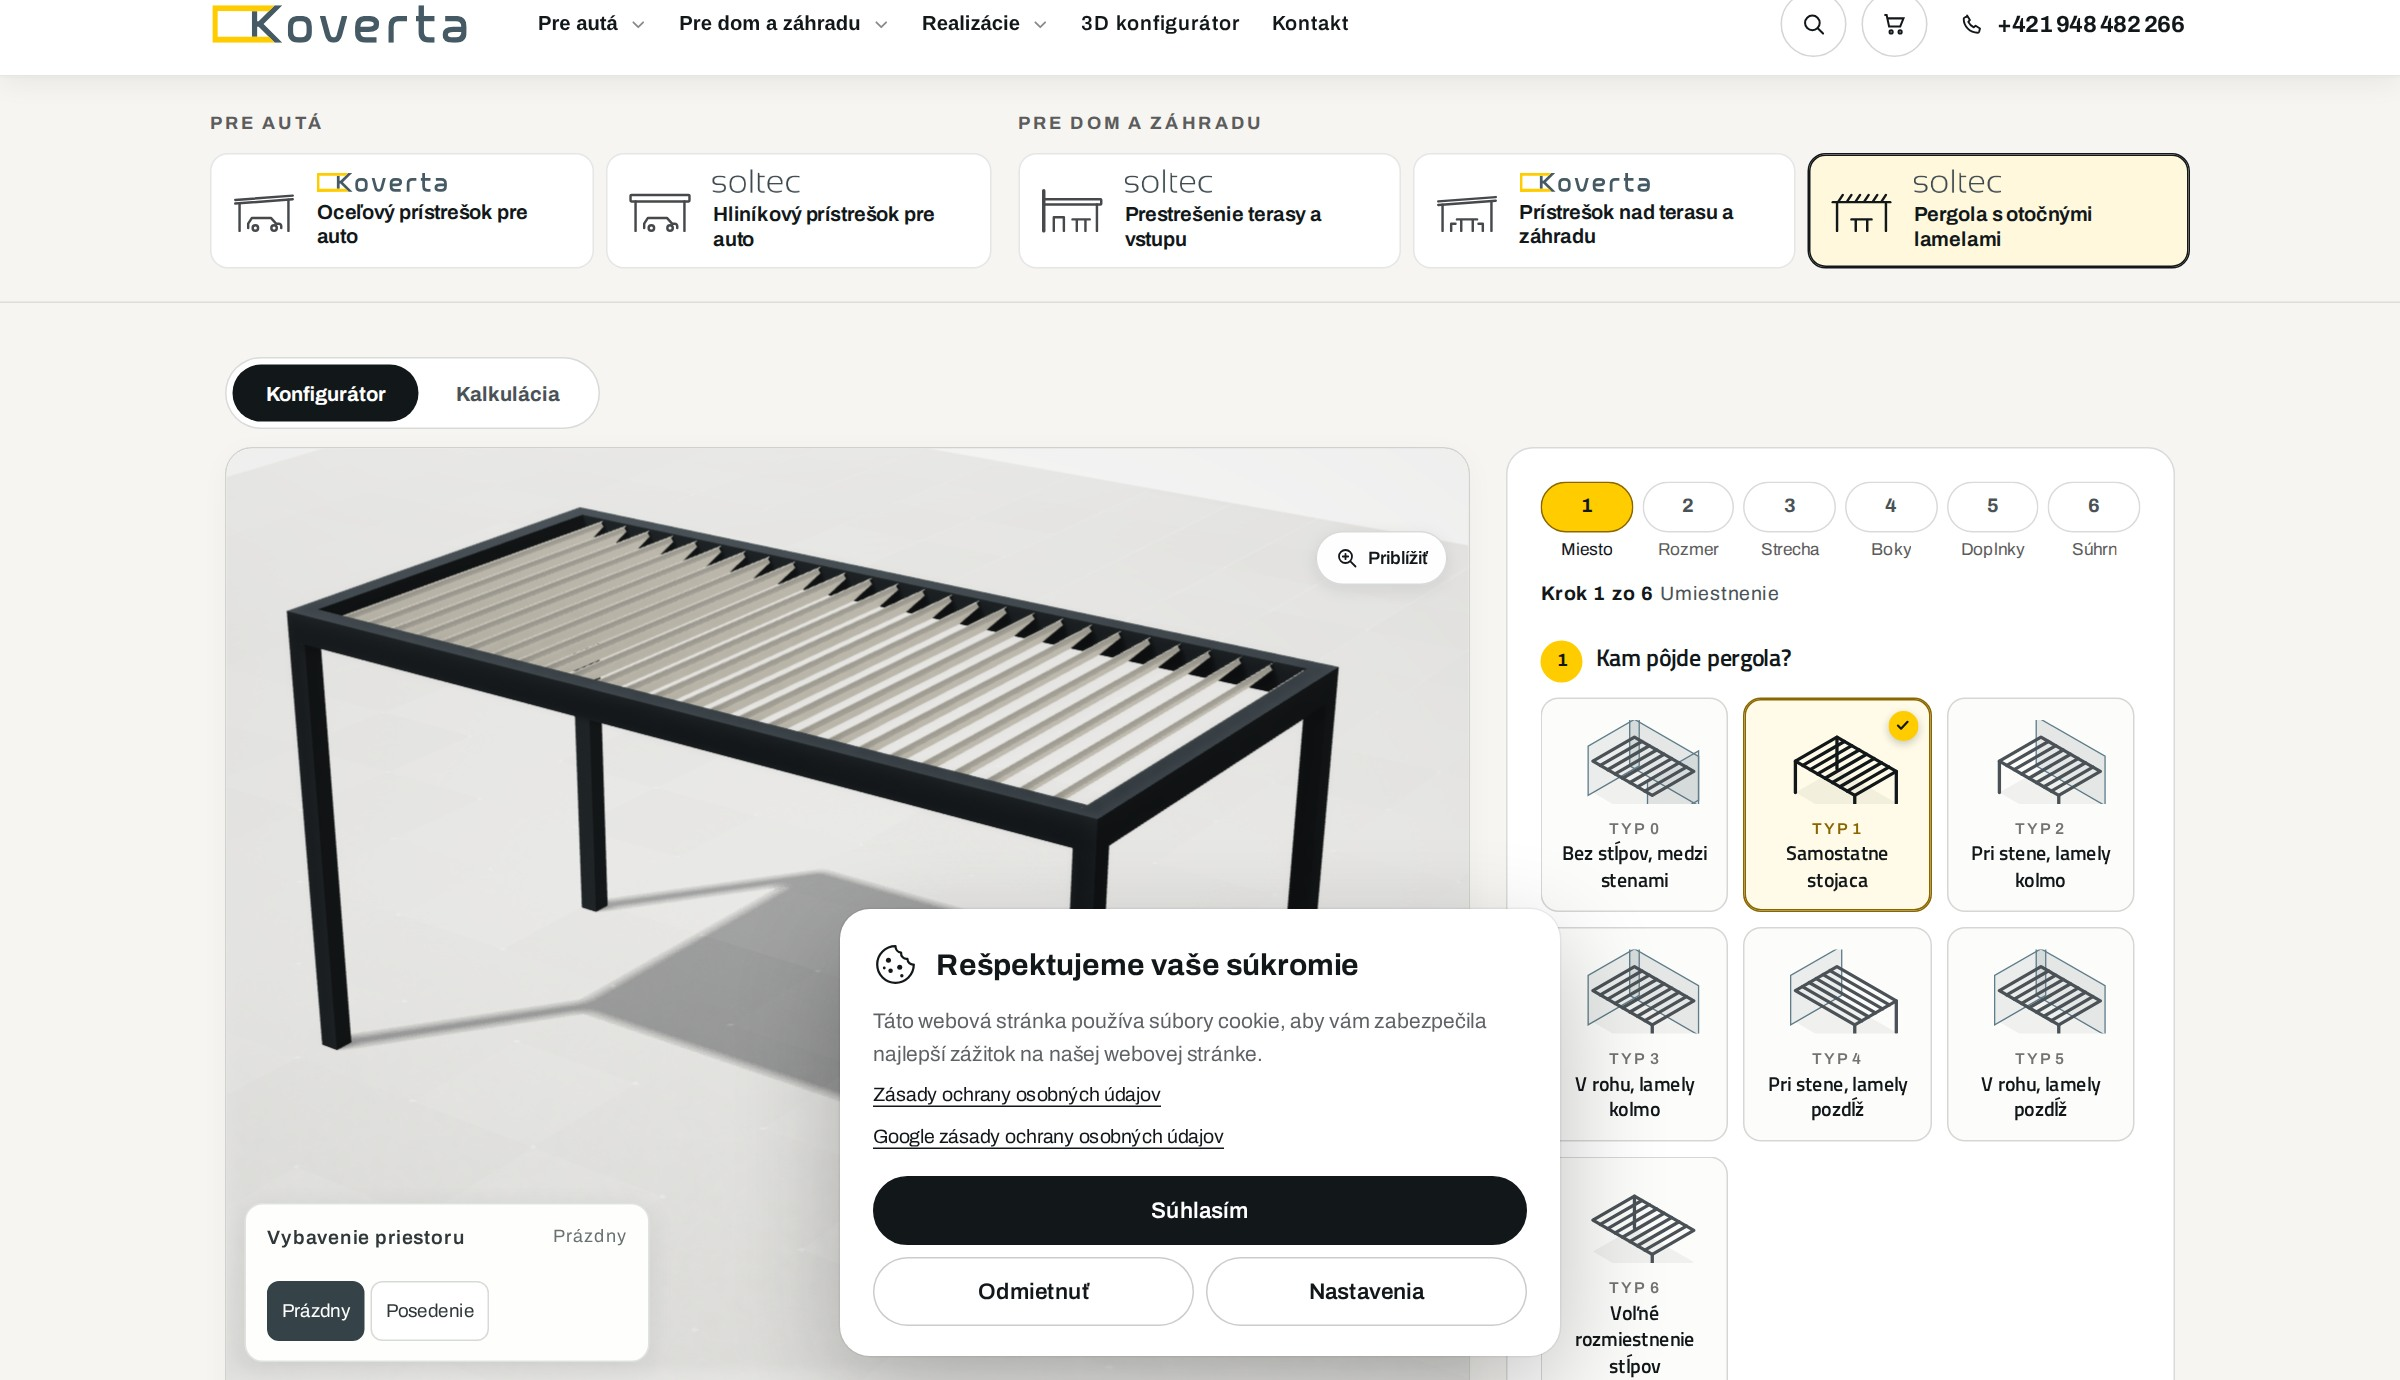
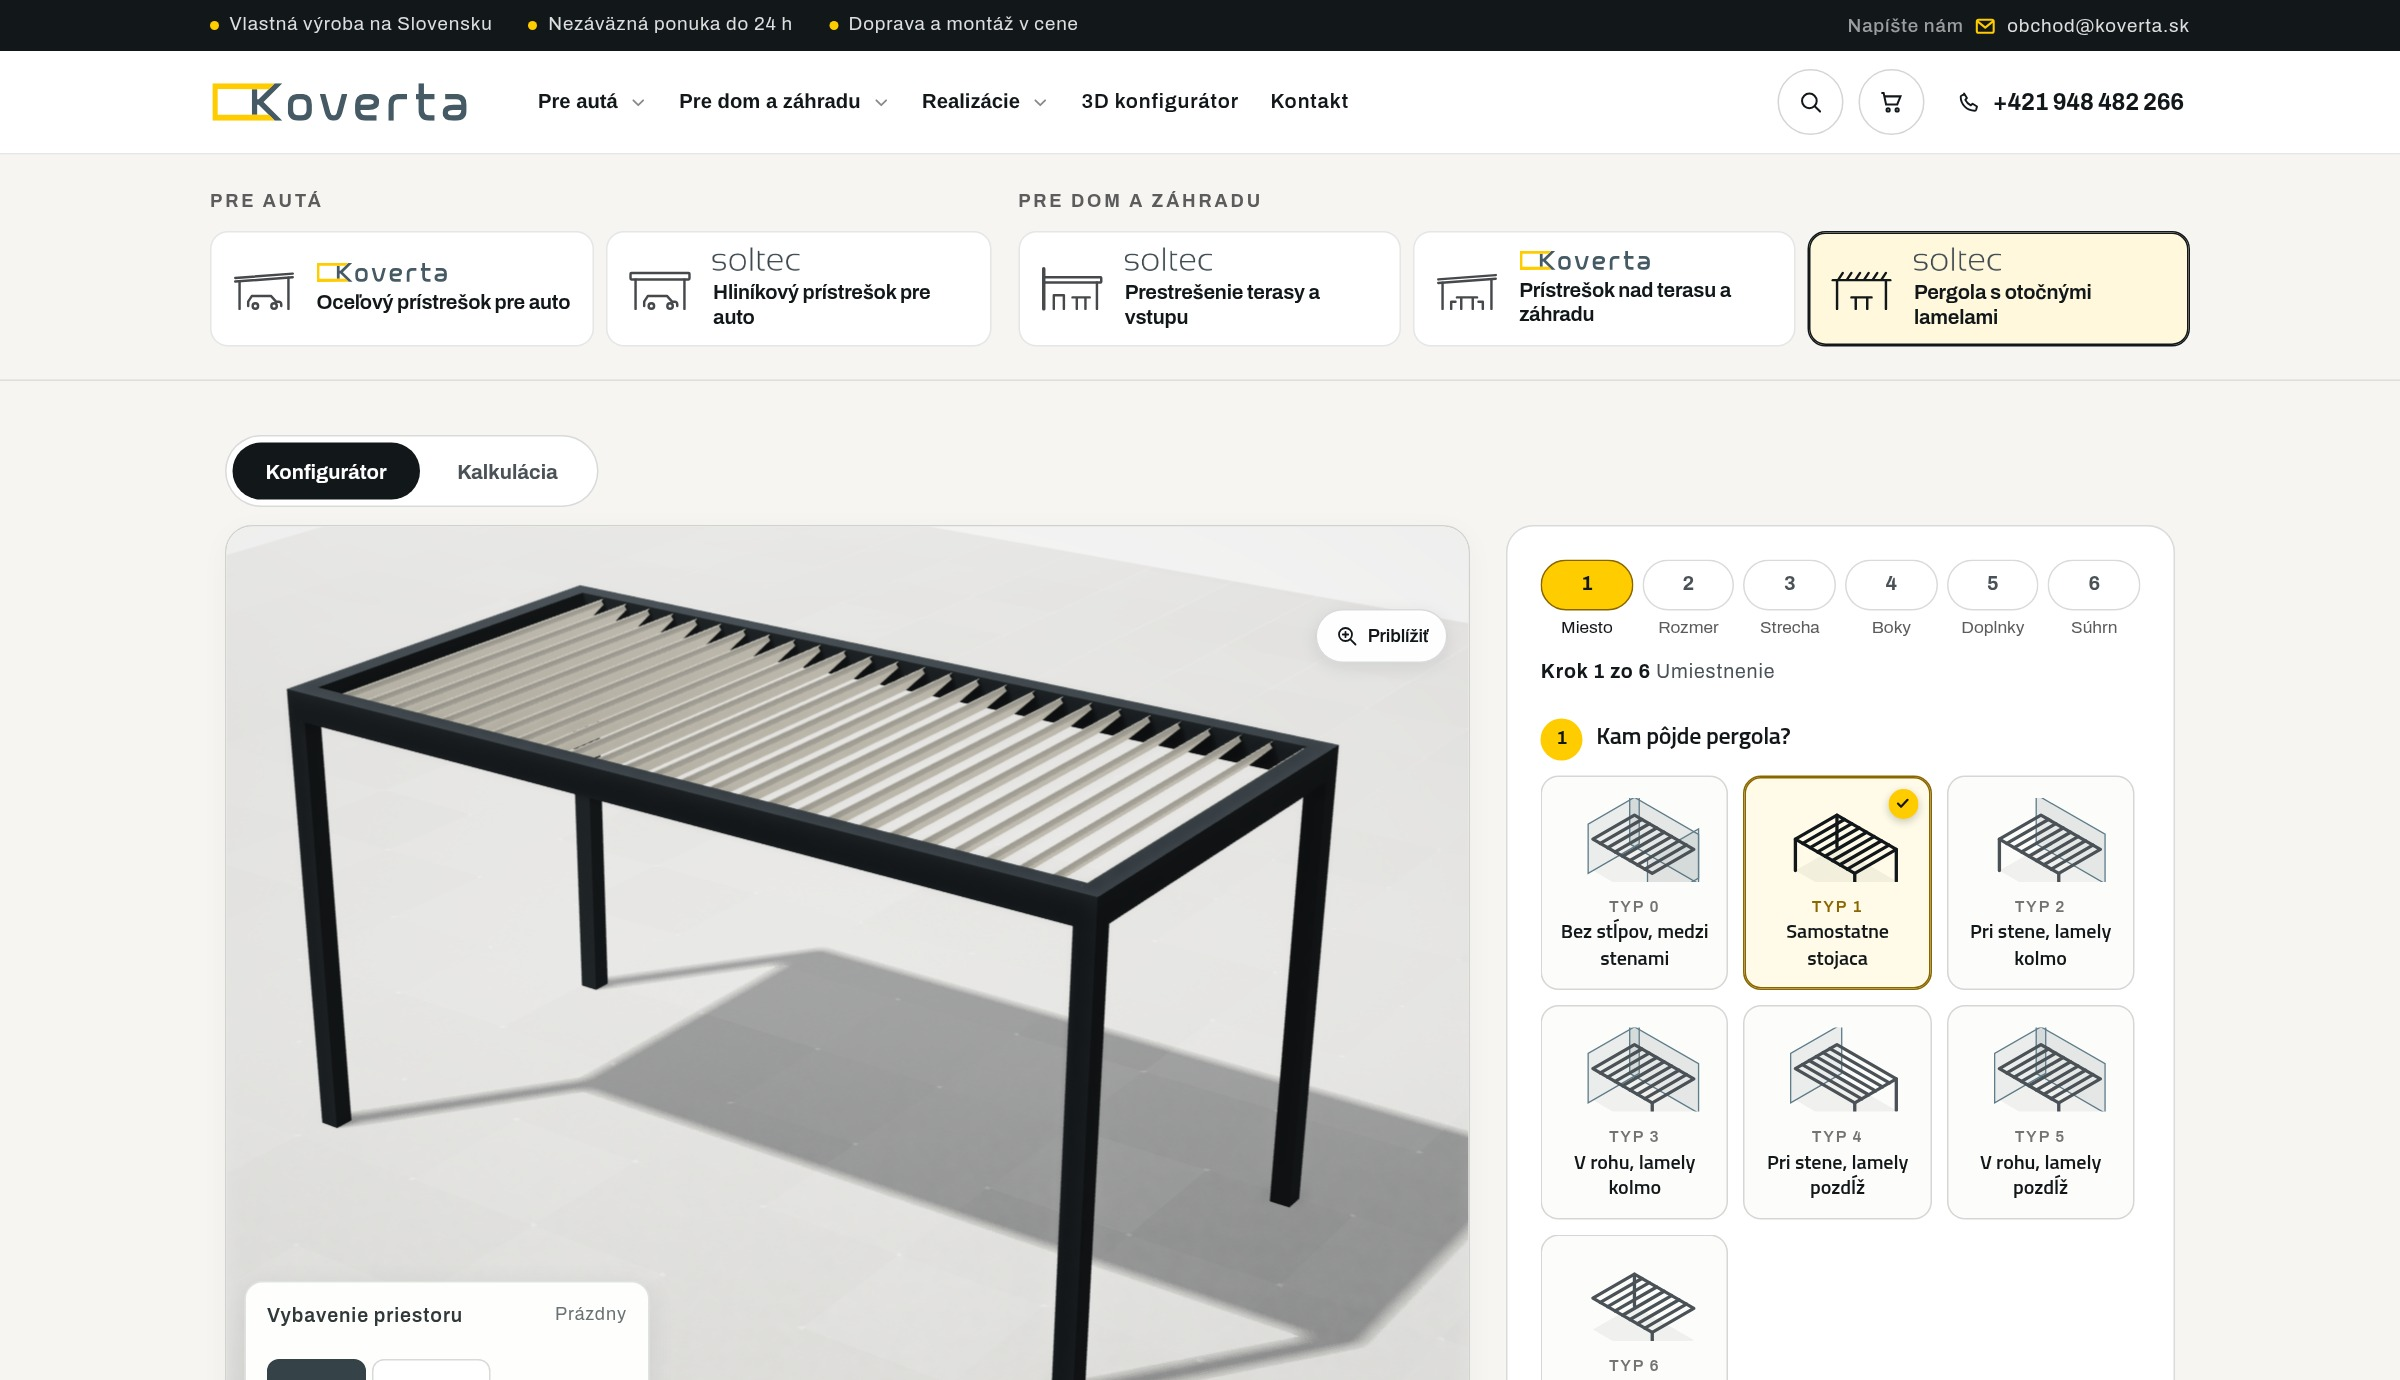
Capture clean configurator and test frozen production build in CI

diff --git a/src/types/assistant.ts b/src/types/assistant.ts
@@ -1,5 +1,10 @@
 export type AssistantEntry =
-  "recommend" | "builder" | "calculator" | "inquiry" | "advisor" | "booking";
+  | "recommend"
+  | "builder"
+  | "calculator"
+  | "inquiry"
+  | "advisor"
+  | "booking";
 
 export type AssistantPreset = "calculator" | "product" | "inquiry" | "advisor" | "booking";
 

diff --git a/docs/qa/2026-10-08/README.md b/docs/qa/2026-10-08/README.md
@@ -16,6 +16,8 @@ This review builds on website PR #200 (`beac46714ba491dd3fc643e5fd9ee16f14dd4de1
 
 ## Real product sources
 
+The real Koverta 3D configurator was recaptured with the pergola selected and cookies refused through the provided control. [Clean 3D capture](../../../public/work/koverta/configurator-live-screenshot.jpg).
+
 Koverta's widget loads lazily after user interaction. Its current **Poradca** was opened on the real site, cookies were refused through the provided control, and a question about pergola versus fixed roofing received a real answer and product links. Its actual client logo is retained. [Original capture](koverta-source.png).
 
 Môj Plot's real widget was opened, configured for 20 bm, 153 cm and 4 mm, with anthracite finish, round posts, underboards and installation. Its own calculator returned **1 175 €** (rounded display; detailed total 1 175,29 €). The fictional test contact submission was intercepted before network delivery. [Input](calculator-input-source.png), [result](calculator-result-source.png).
@@ -28,7 +30,7 @@ All 720 frames of both 12-second, 60 fps sources were measured against the fixed
 
 ## Verification
 
-- Website: lint, production Vercel build, 48 tests, security audit (176 scanned files).
+- Website: lint with the frozen Bun dependencies used by CI, production Vercel build, 48 tests, security audit (176 scanned files). The original type formatting is retained; npm and Bun locks use different Prettier versions.
 - Backend: type check, production/embed builds, 14 tests; the JS bundle remains unchanged by these CSS-only additions.
 - Chromium: 320, 390, 768, 1366 and 1920 px, navigation/menu/hero/cases/mail/detail transitions/chat/widget/keyboard-height composer. [Report](cinematic-report.json). The final mask correction was checked at all five widths: [heading report](heading-report.json). The observer watches an unmasked parent; only its inner text is clipped.
 - Normal and reduced motion at 390 and 1366 px: fallback transition, Back, direct product URLs, all skincare choices, equal footer CTA geometry and intercepted contact submission. [Report](regression.json).
@@ -41,7 +43,7 @@ Solutions before: [desktop](solutions-before-desktop.png), [mobile](solutions-be
 
 Solutions after: [desktop](solutions-after-desktop.png), [mobile](solutions-after-mobile.png). Gmail: [desktop](mail-after-desktop.png), [mobile](mail-after-mobile.png). Section-only captures omit fixed navigation to prevent its duplication in stitched images; hero/menu screenshots retain it.
 
-Browser scripts are included for reproducibility. Run from the repository with Playwright available (`PLAYWRIGHT_MODULE` can point to an installed package), Chromium specified by `PLAYWRIGHT_CHROMIUM_EXECUTABLE`, and the production build served on port 4183. `serve-vercel.mjs <repository-path> 4183` serves the generated Vercel handler and static files because the existing `vite preview` expects a missing `dist/server/server.js`. Reports/videos are written under `/workspace/qa`, outside the checkout. Playwright recording needs its ffmpeg installation.
+Browser scripts are included for reproducibility. CI now installs Playwright in a separate runtime directory so it cannot re-resolve application dependencies, then tests the real production Vercel output. The development-only Lovable source tagger emits inconsistent SSR/client line coordinates; production testing avoids those debug attributes while retaining strict console-error assertions. Run from the repository with Playwright available (`PLAYWRIGHT_MODULE` can point to an installed package), Chromium specified by `PLAYWRIGHT_CHROMIUM_EXECUTABLE`, and the production build served on port 4183. `node scripts/serve-vercel-build.mjs <repository-path> 4183` serves the generated Vercel handler and static files because the existing `vite preview` expects a missing `dist/server/server.js`. Reports/videos are written under `/workspace/qa`, outside the checkout. Playwright recording needs its ffmpeg installation.
 
 ## Performance and release limits
 
